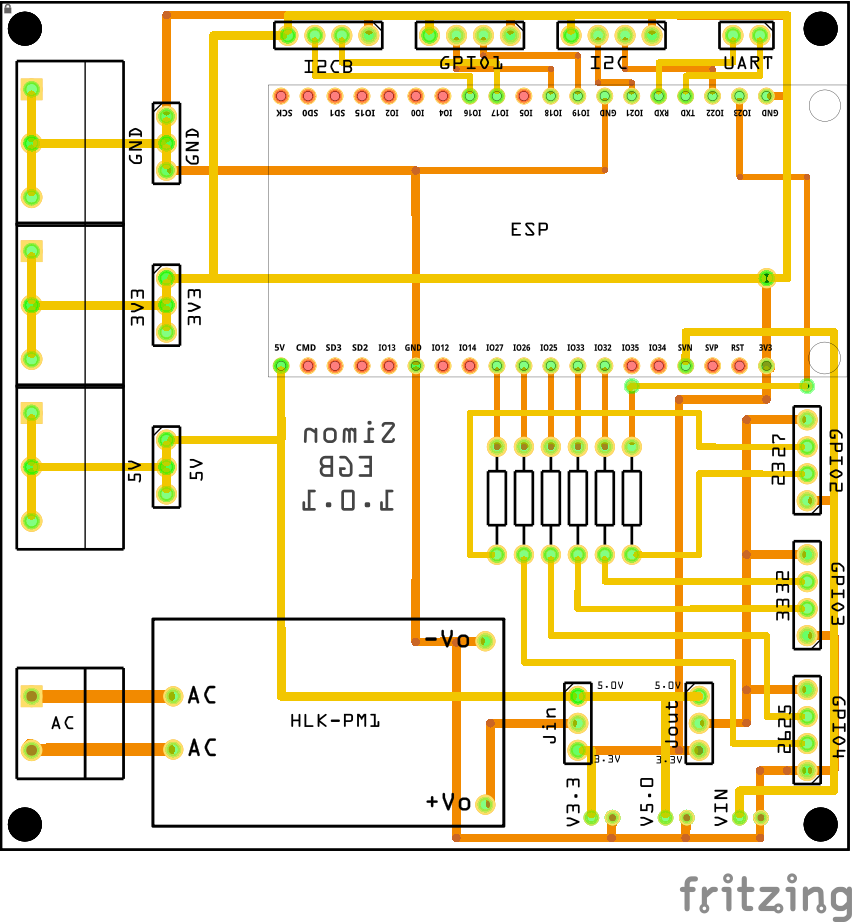
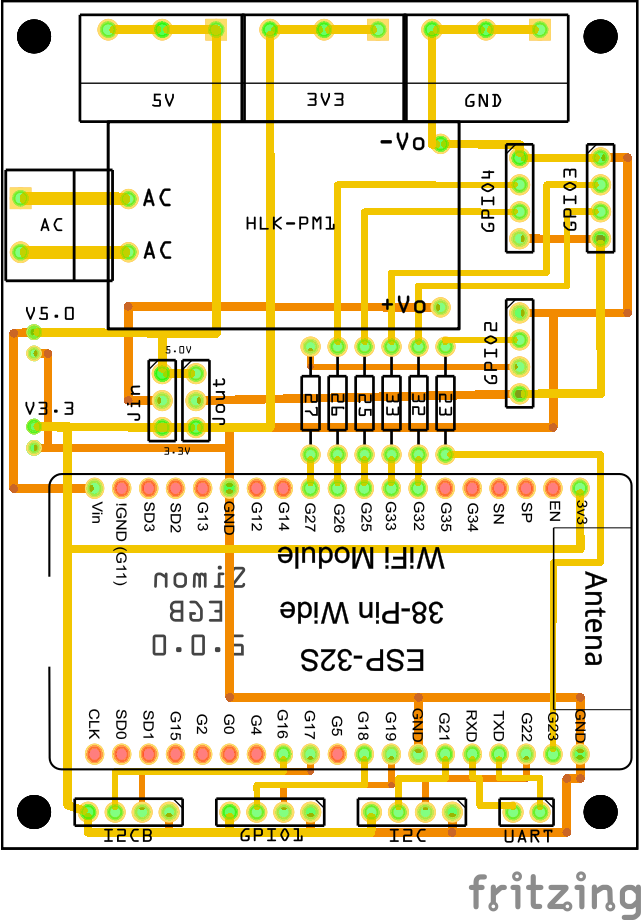
Update documentation for new fortam

diff --git a/README.md b/README.md
@@ -1,5 +1,5 @@
 # Esp Generic Board
-The goal of this project is to build a PCB that exposes some of the generic output of a ESP32 DevKit on a PCB of 8 * 8cm
+The goal of this project is to build a PCB that exposes some of the generic output of a ESP32 DevKit on a PCB of 6 * 8cm
 
 ![Board PCB](assets/esp-generic-board_pcb.png)
 
@@ -15,14 +15,14 @@ The 140-220V AC input is provided with connector like these : https://amzn.to/3p
 ### DC Input
 DC power can be connected to on of the three connectors on bottom of the board. 
 
-The exposed inputs are 5V, 3.3V, Vin (5-12V) with the following connectors : https://amzn.to/42YOgCf
+The exposed inputs are 5V, 3.3V with the following connectors : https://amzn.to/42YOgCf
 
 Be aware : the connectors is 2mm and not 2.54mm because it's the most commonly used in Lipo :)
 
 ## Outputs
 ## GPIO
 ### GPIO1
-The GPIO1 expose the GPIO 18 and 19, with ground and 3.3V on top of the board, with connectors like this : https://amzn.to/3OtbCLU, ground on right, 3.3V on left.
+The GPIO1 expose the GPIO 18 and 19, with ground and 3.3V on bottom of the board, with connectors like this : https://amzn.to/3OtbCLU, ground on right, 3.3V on left.
 
 ### GPIO2, 3, 4
 The GPIO2, 3 and 3 expose the GPIO 23,25,26,27,32 and 33, with ground and V on the right of the board, with connectors like this : https://amzn.to/3OtbCLU
@@ -31,14 +31,14 @@ To select the output voltage for the V pin, you can use the jumper Jout
 All these GPIO can have resistor, or simple wire if no resistor is required, on the center of the board.
 
 ### DC Output
-On left of the board, there is three connectors for GROUND, 3.3V and 5V that can be used with simple 2.54mm header or connector like these : https://amzn.to/3pWHxKi or https://amzn.to/43n3ArU, ground on bottom, V on top.
+On top of the board, there is three connectors for GROUND, 3.3V and 5V that can be used with connector like these : https://amzn.to/3pWHxKi or https://amzn.to/43n3ArU
 
 These connectors can also be used as DC input.
 
 Note : the track for all the GROUND and DC Power is 32mil width, it can handle up to 2A depending the the DC Input max current (https://amzn.to/3MS7B2v is only 0.6A)
 
 ## UART
-The uart is exposed on top right of the board with connecter like this : https://amzn.to/3IvOrMX
+The uart is exposed on bottom right of the board with connecter like this : https://amzn.to/3IvOrMX
 
 ## I2C
-The I2C ports are exposed on top of the board, with connectors like this : https://amzn.to/3OtbCLU, ground on right, 3.3V on left.
+The I2C ports are exposed on bottom of the board, with connectors like this : https://amzn.to/3OtbCLU, ground on right, 3.3V on left.
